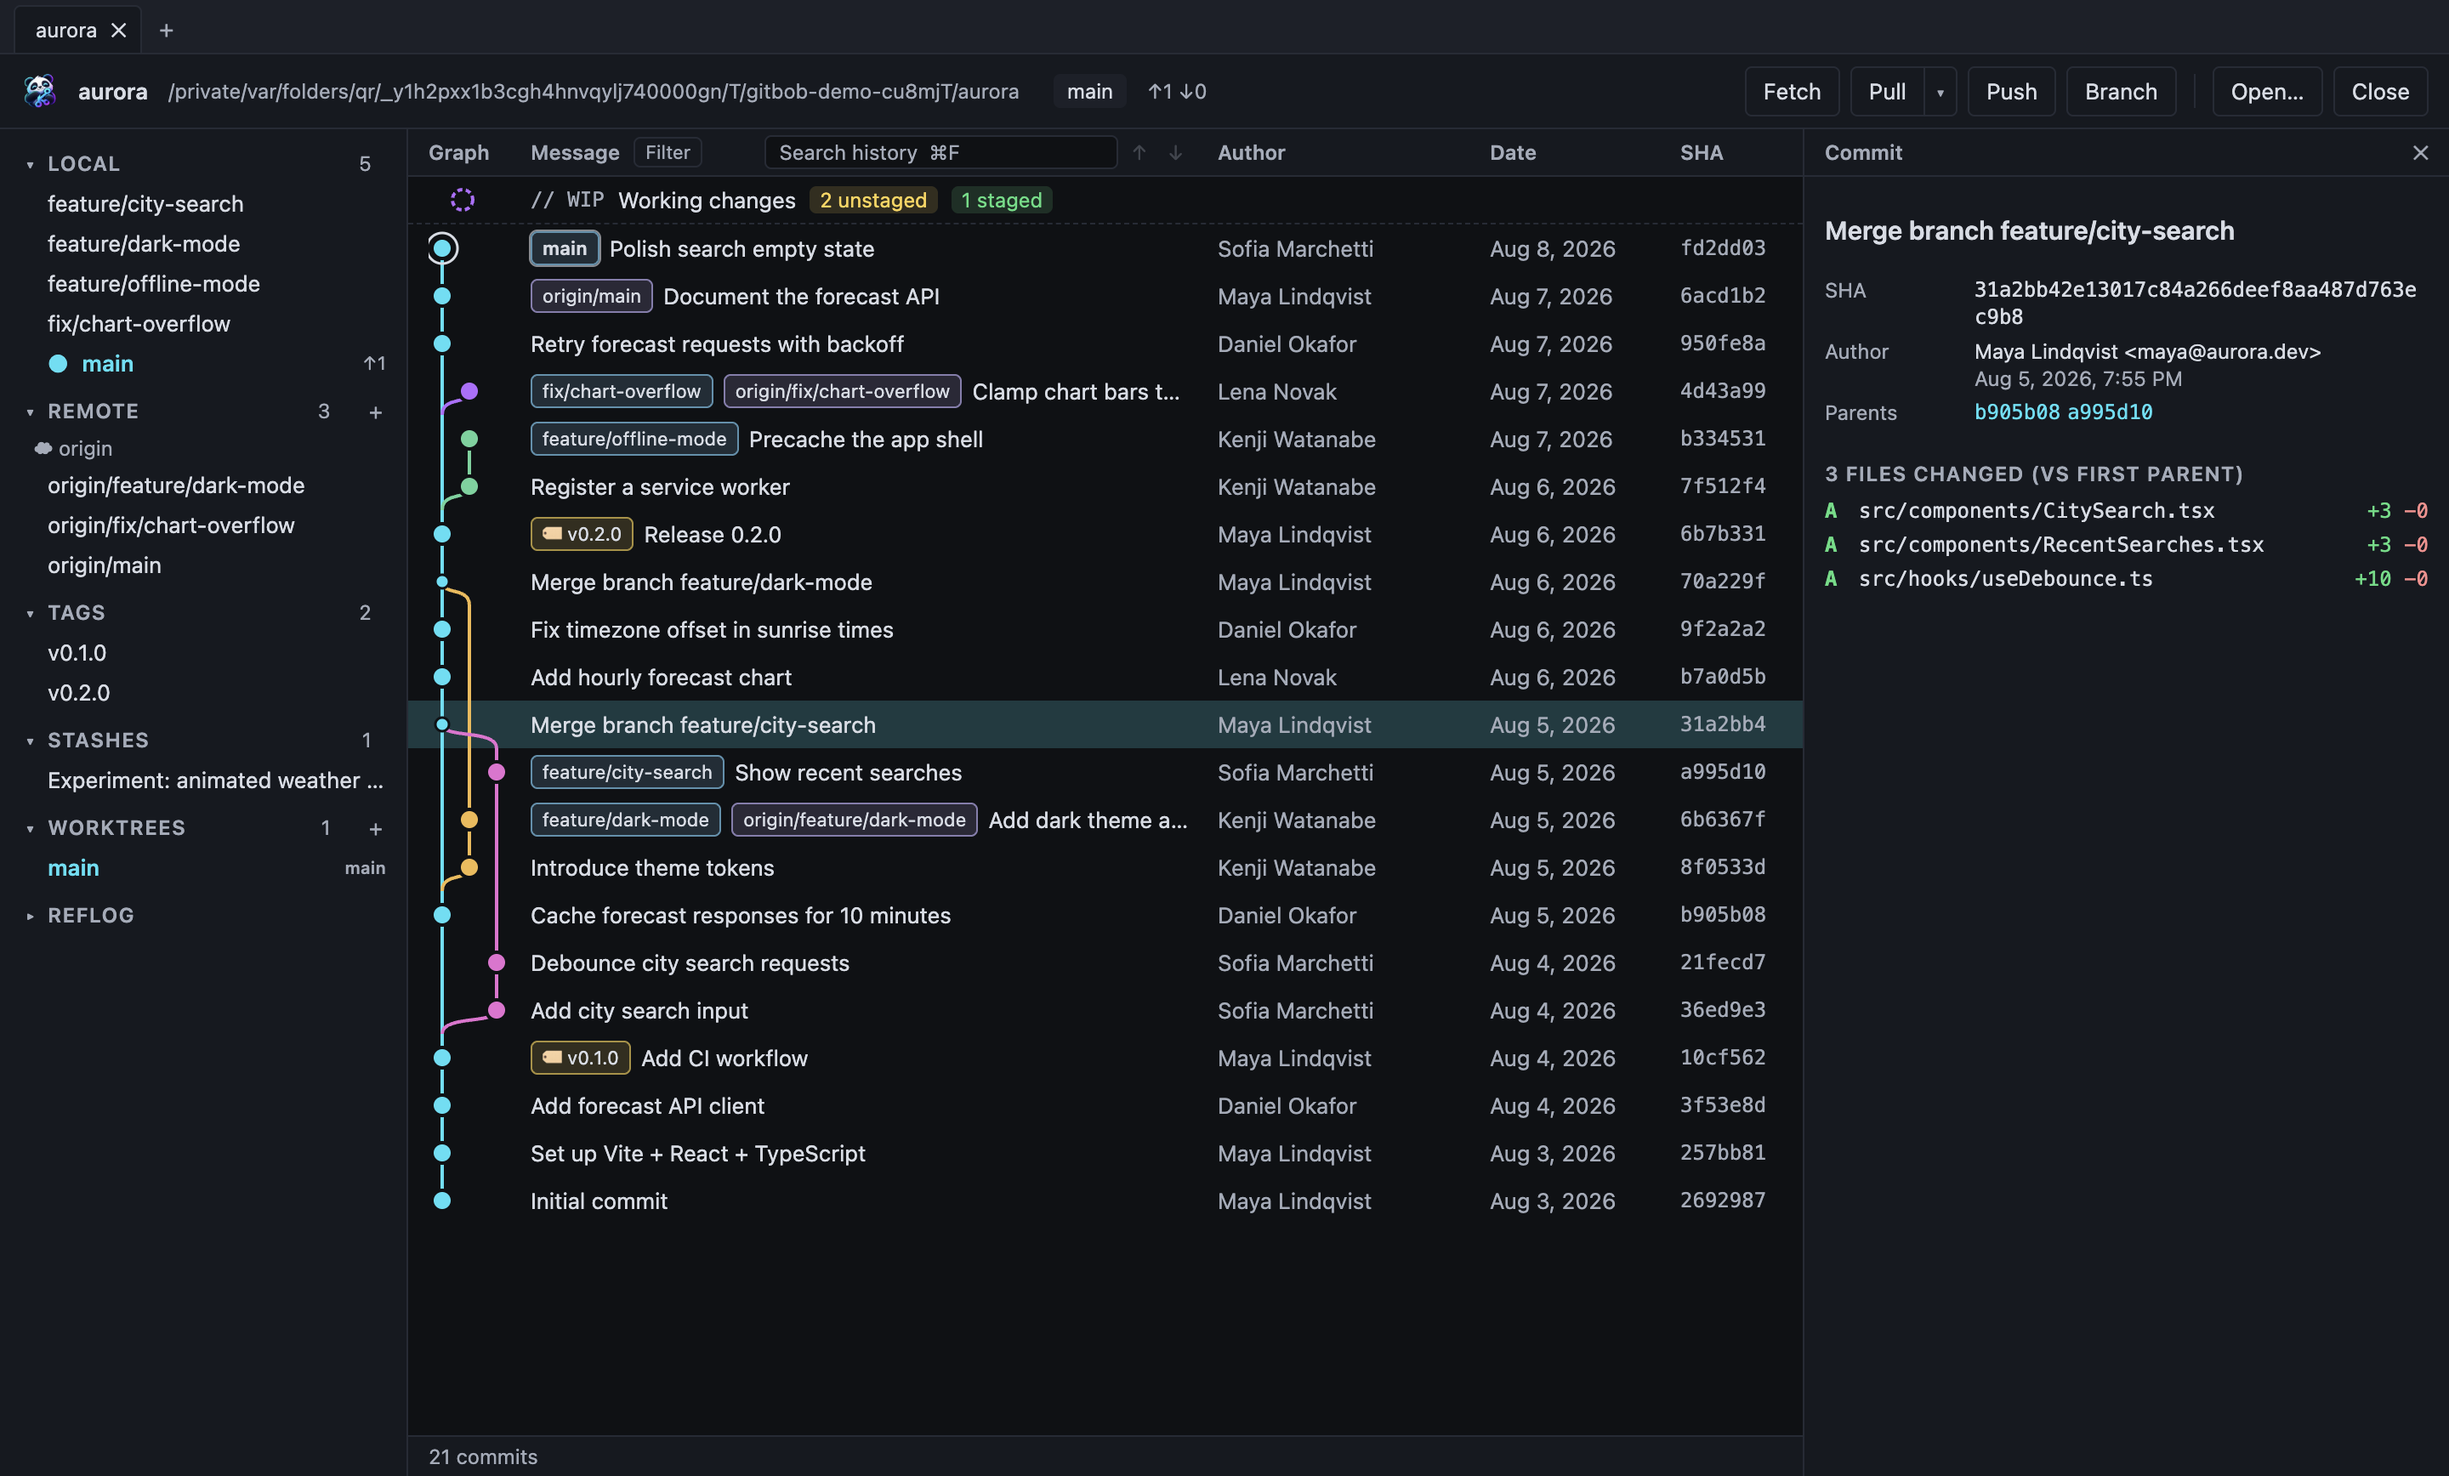
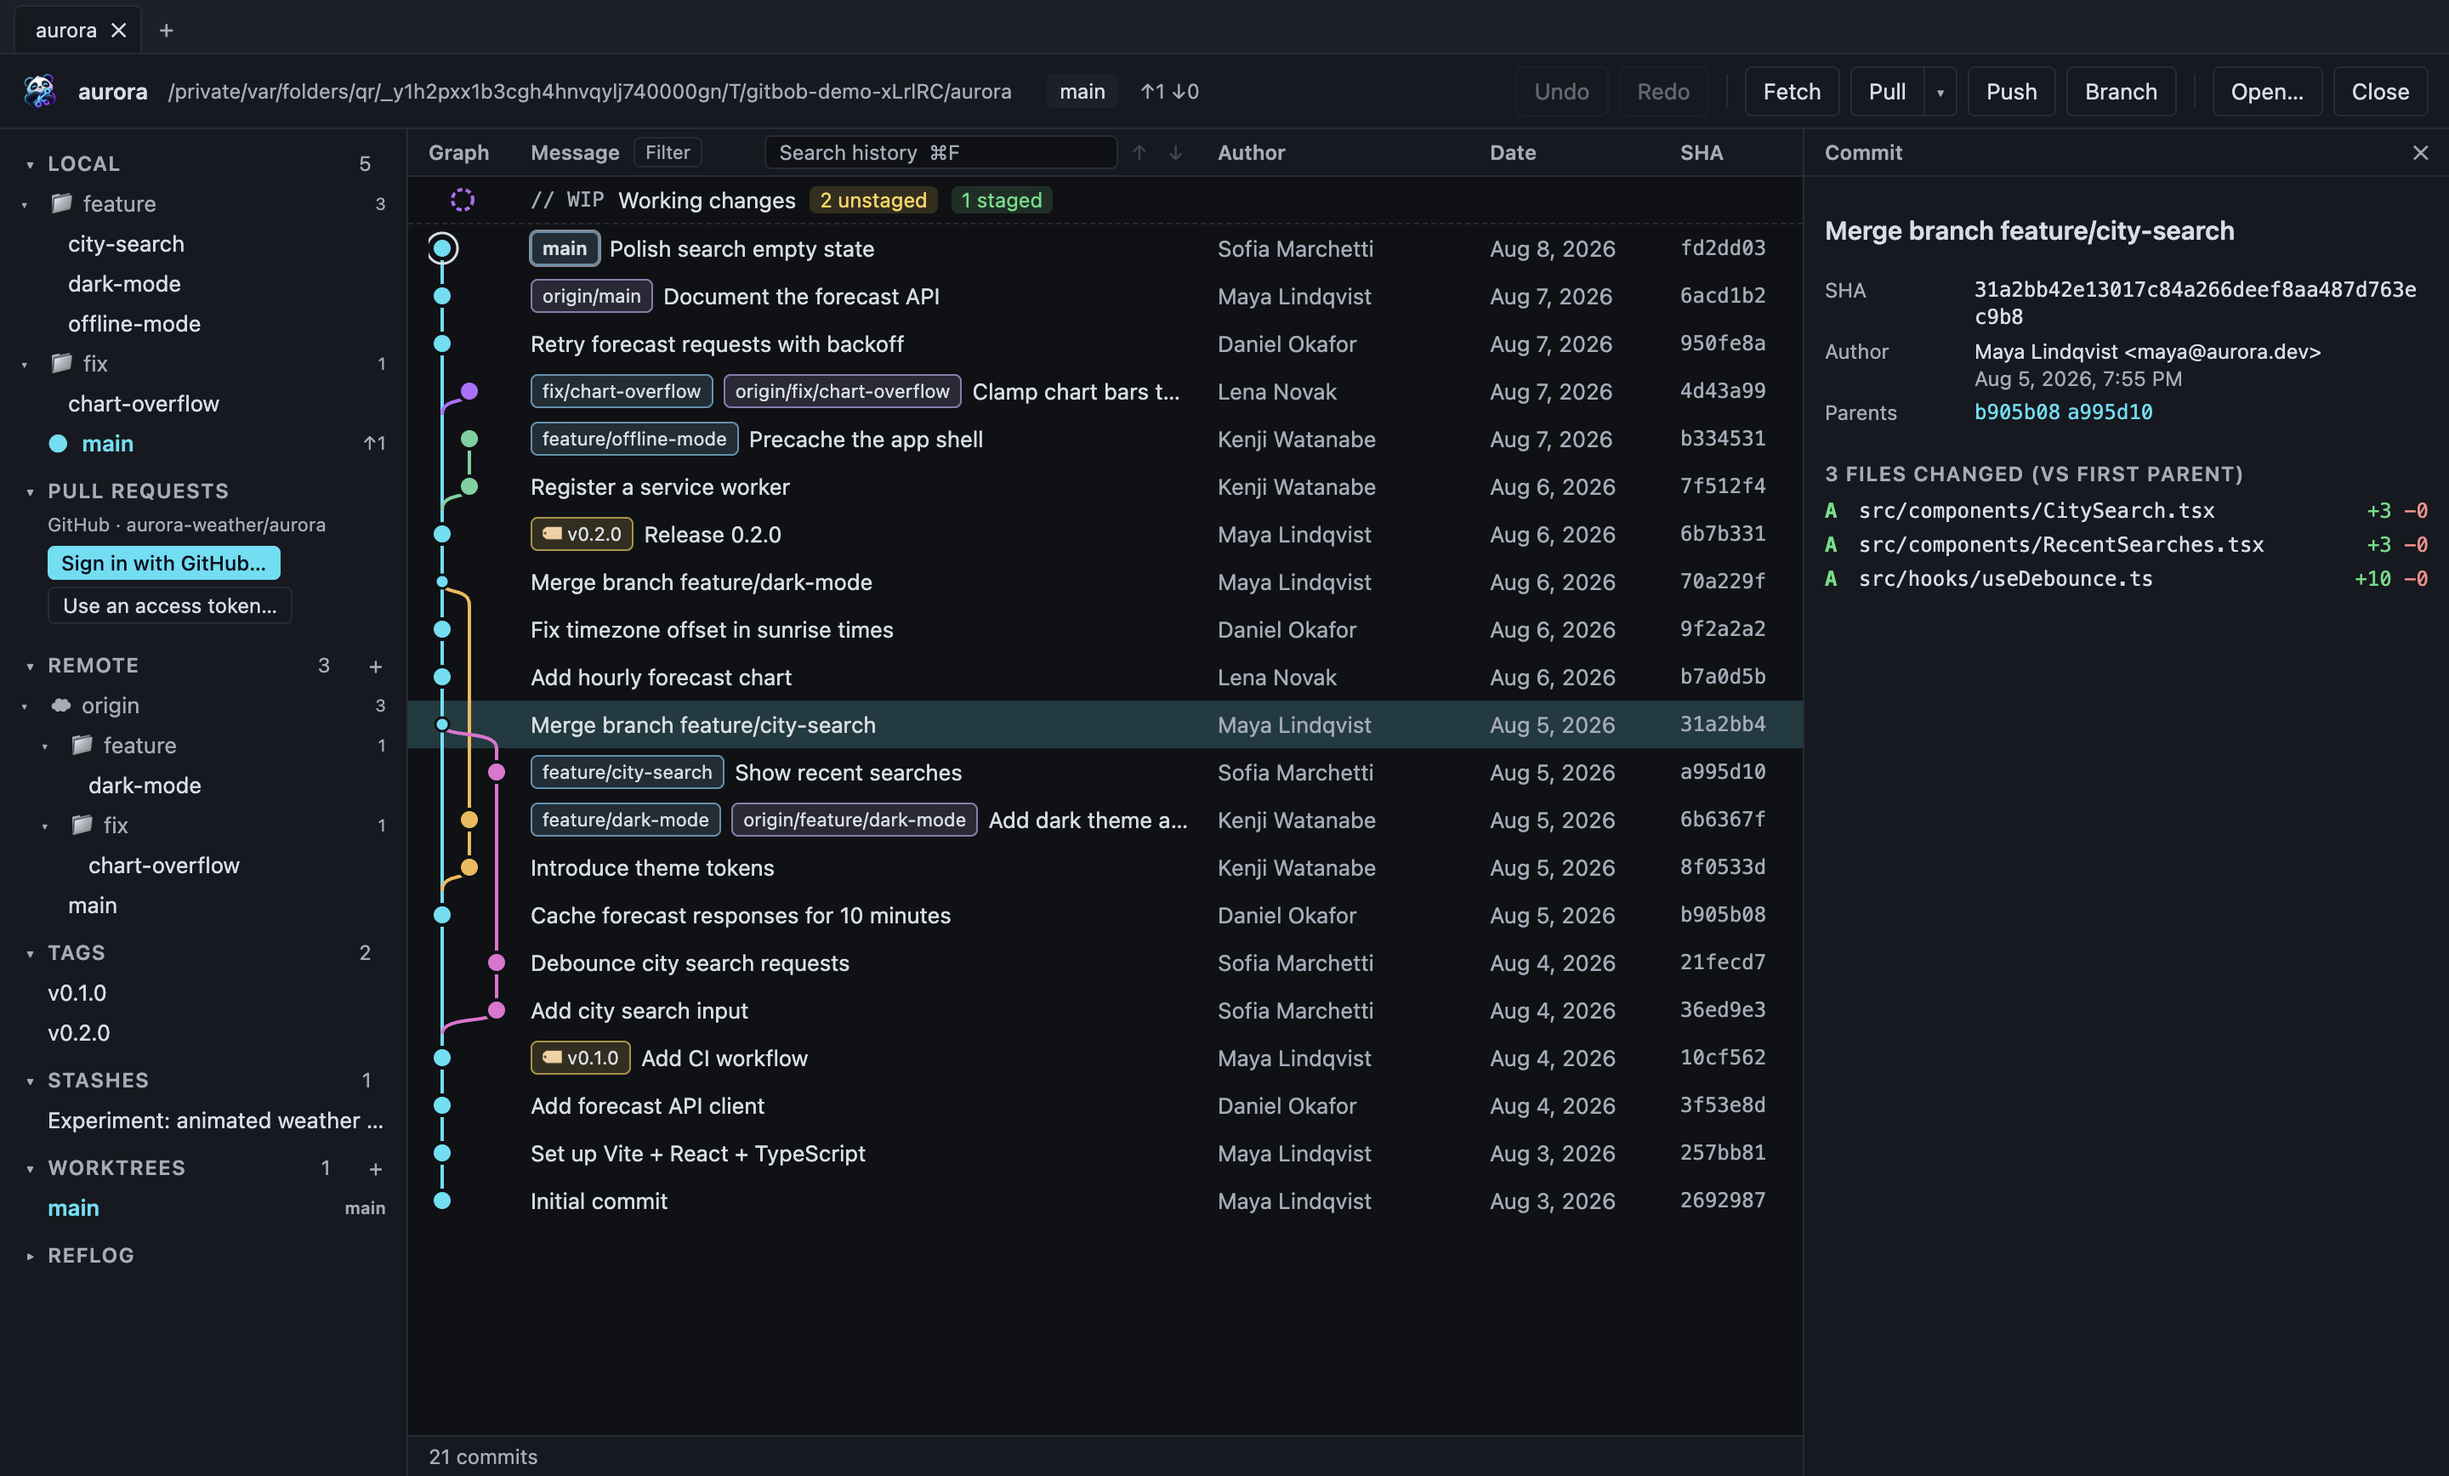
Fresh screenshots (PR review, line comments, clone picker, file history, drag and drop); fix diff overflow in file history

Changed region(s): [[0.0, 0.1244, 0.125, 0.6532], [0.0312, 0.7154, 0.1562, 0.8088], [0.0312, 0.8399, 0.0625, 0.871]]

diff --git a/src/renderer/src/components/FileHistoryView.tsx b/src/renderer/src/components/FileHistoryView.tsx
@@ -106,13 +106,15 @@ export function FileHistoryView({ repoPath, path }: { repoPath: string; path: st
             )}
           </ul>
           {current && current.status !== 'D' ? (
-            <DiffView
-              key={current.commit.sha}
-              repoPath={repoPath}
-              target={{ kind: 'commit', sha: current.commit.sha, path: current.path, ...(current.oldPath ? { oldPath: current.oldPath } : {}) }}
-              onClose={() => openFileHistory(null)}
-              showHistoryButton={false}
-            />
+            <div className="flex min-w-0 flex-1">
+              <DiffView
+                key={current.commit.sha}
+                repoPath={repoPath}
+                target={{ kind: 'commit', sha: current.commit.sha, path: current.path, ...(current.oldPath ? { oldPath: current.oldPath } : {}) }}
+                onClose={() => openFileHistory(null)}
+                showHistoryButton={false}
+              />
+            </div>
           ) : current ? (
             <div className="flex-1 p-4 text-sm text-muted" data-testid="file-history-deleted">
               This commit deleted the file.

diff --git a/src/renderer/src/components/DiffView.tsx b/src/renderer/src/components/DiffView.tsx
@@ -4,6 +4,7 @@ import { useMutation, useQuery, useQueryClient } from '@tanstack/react-query'
 import { call } from '../lib/api'
 import { useFileContents, useFileDiff, useRepoMutation } from '../lib/queries'
 import { useUiStore } from '../state/ui'
+import { formatDate } from '../lib/format'
 import { useAppStore } from '../state/store'
 
 const targetLabel: Record<DiffTarget['kind'], string> = {
@@ -318,7 +319,7 @@ function HunkTable({ repoPath, target, data }: { repoPath: string; target: DiffT
                         {thread.map((c) => (
                           <div key={c.id} className="mb-2 max-w-3xl" data-testid="line-comment">
                             <div className="text-xs text-muted">
-                              <strong className="text-fg">{c.author}</strong> · {new Date(c.createdAt).toLocaleString()}
+                              <strong className="text-fg">{c.author}</strong> · {formatDate(Date.parse(c.createdAt) / 1000)}
                             </div>
                             <div className="whitespace-pre-wrap">{c.body}</div>
                           </div>

diff --git a/README.md b/README.md
@@ -166,6 +166,12 @@ Changed your mind about a file? **Discard** throws away its unstaged edits after
 
 GitBob never overwrites your uncommitted changes when switching. If Git would have to, it tells you instead.
 
+<p align="center">
+  <img src="docs/images/gitbob-drag-merge.png" alt="A branch dragged onto main in the sidebar opens a menu with Merge fix/chart-overflow into main and Rebase main onto fix/chart-overflow" width="100%">
+  <br>
+  <sub>Drop a branch on your current branch to merge or rebase it.</sub>
+</p>
+
 ### 5. Sync with the server
 
 | Button | What it does |
@@ -184,6 +190,24 @@ Click a pull request to open it inside GitBob: read the description and comments
 
 On GitHub you can also **Sign in with GitHub** instead of pasting a token: GitBob shows a short code, opens github.com in your browser, and you approve it there.
 
+<p align="center">
+  <img src="docs/images/gitbob-pr.png" alt="A pull request open in GitBob: description, reviewers with one approval, comments, CI passing, Approve and Request changes buttons and the merge panel" width="100%">
+  <br>
+  <sub>Review a pull request without leaving GitBob.</sub>
+</p>
+
+<p align="center">
+  <img src="docs/images/gitbob-pr-files.png" alt="The changed file of a pull request with a reviewer's comment shown under the line it refers to" width="100%">
+  <br>
+  <sub>Line comments sit right under the lines they talk about.</sub>
+</p>
+
+<p align="center">
+  <img src="docs/images/gitbob-clone.png" alt="The clone dialog listing the signed-in user's GitHub repositories filtered by the word aurora, private ones marked" width="80%">
+  <br>
+  <sub>Clone straight from a list of your repositories.</sub>
+</p>
+
 ### 7. Undo, park and reuse work
 
 Right-click any commit for the time-travel tools:
@@ -198,6 +222,11 @@ Right-click any commit for the time-travel tools:
 - **Create tag** marks a release, with an optional message. Push or delete tags from the sidebar.
 - **Undo / Redo** in the toolbar (⌥⌘Z / ⇧⌥⌘Z) take back the last commit, amend, checkout, branch or tag change, reset, cherry-pick, revert, pull or rebase you did in GitBob. Undo never overwrites uncommitted work, and refuses if the repository changed in the meantime.
 - **File history** (in any file's diff, or right-click a file in a commit) lists every commit that changed the file, following renames, with each commit's change.
+
+<p align="center">
+  <img src="docs/images/gitbob-file-history.png" alt="File history of src/api/forecast.ts: four commits on the left, the selected commit's change to the file on the right" width="100%">
+</p>
+
 - **Blame** (in any file's diff) shows who last changed each line and links to that commit.
 
 Want to tidy up before sharing? Right-click the commit *before* the ones you want to change and choose **Interactive rebase onto here**. Reorder commits with the arrows, and for each one pick **Reword** (new message), **Squash** or **Fixup** (fold into the commit above) or **Drop**.
